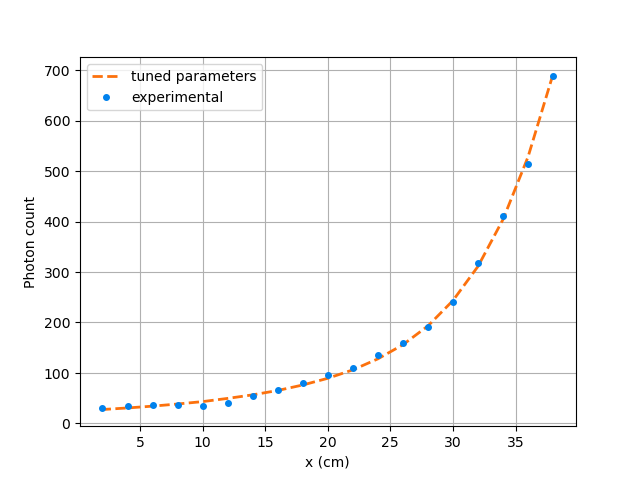
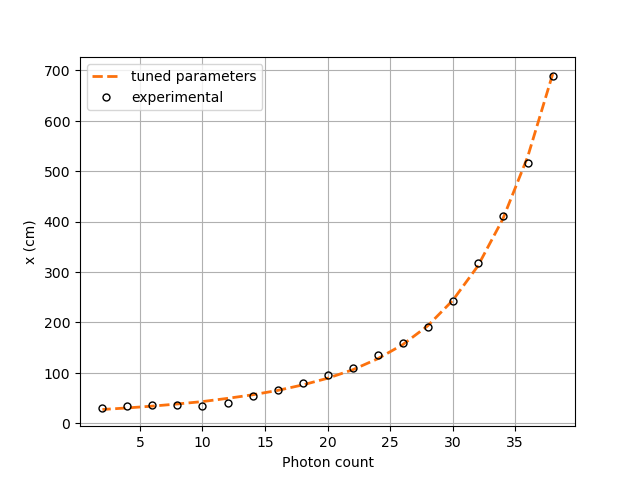
RPT examples: Modify examples taking the comments into account

diff --git a/examples/rpt/parameters_tuning/rpt_parameter_tuning_plot.py b/examples/rpt/parameters_tuning/rpt_parameter_tuning_plot.py
@@ -1,0 +1,64 @@
+"""
+Name   : rpt_parameter_tuning_plot.py
+Author : Amishga Alphonius
+Date   : 23-06-2022
+Desc   : Generates plots with the data resulting from the parameter tuning example
+"""
+
+from sklearn.linear_model import LinearRegression
+from sklearn.metrics import r2_score
+import numpy as np
+import matplotlib.pyplot as plt
+import csv
+import sys
+
+
+header = []
+rows = []
+position_x = []
+exp_counts = []
+cal_counts = []
+
+# Verify if an argument was added when running the script
+assert(len(sys.argv)>1), "The .csv containing the data to be read wasn't specified as an argument when running the script."
+	
+
+# Opening and reading .csv file, and converting positions from 'm' to 'cm'
+with open("counts_exp.csv",'r') as data_file:
+	csvReader = csv.reader(data_file, delimiter=',')
+	header = next(csvReader)
+	for row in csvReader:
+		exp_counts.append(float(row[0]))
+data_file.close()
+
+with open(sys.argv[1],'r') as data_file:
+	csvReader = csv.reader(data_file, delimiter=',')
+	header = next(csvReader)
+	for row in csvReader:
+		position_x.append(float(row[0])*100)
+		cal_counts.append(float(row[4]))
+data_file.close()
+
+cal_counts = np.array(cal_counts)
+exp_counts = np.array(exp_counts)
+
+
+# Generate plots
+# Experimental and calculated counts comparison
+plt.plot(position_x, cal_counts, linestyle="dashed", color="#fc710d", linewidth=2, label="tuned parameters")
+plt.plot(position_x, exp_counts, linestyle="none", color="#000000", marker='o', ms=5, mfc="None", label="experimental")
+plt.xlabel("Photon count")
+plt.ylabel("x (cm)")
+plt.legend()
+plt.grid(True)
+plt.show()
+
+# Linear fit graph
+plt.plot(exp_counts, cal_counts, linestyle="None", color="#000000", marker='o', ms=5, mfc="None")
+cal_counts, exp_counts = cal_counts.reshape(-1,1), exp_counts.reshape(-1,1)
+plt.plot(cal_counts, LinearRegression().fit(cal_counts, exp_counts).predict(cal_counts), linestyle="dashed", color="#fc710d", linewidth=2)
+plt.annotate("R^2 = {:.4f}".format(r2_score(cal_counts, exp_counts)), (490, 650), color="#fc710d")
+plt.xlabel("Experimental photon count")
+plt.ylabel("Calculated photon count")
+plt.grid(True)
+plt.show()

diff --git a/examples/rpt/parameters_tuning/rpt_lethe_nomad.py b/examples/rpt/parameters_tuning/rpt_lethe_nomad.py
@@ -11,7 +11,6 @@ import sys
 
 # Path to files/application
 path = "./"  # Current directory
-path_to_rpt_3d = "/home/          /lethe/build/applications/rpt_3d/rpt_3d"   # TO FILL OUT
 
 # Get new calculated parameters
 tmpfile = sys.argv[1]  # Temporary file for new values
@@ -42,7 +41,7 @@ with open(tmp_lethe_parameter_file, "w") as file:  # Write .prm with new paramet
     file.write("\n".join(filestr))
 
 # Call rpt_3d executable
-os.system(path_to_rpt_3d + " " + tmp_lethe_parameter_file)
+os.system("rpt_3d " + tmp_lethe_parameter_file)
 
 # Delete temporary parameter files
 os.remove(tmp_lethe_parameter_file)

diff --git a/doc/source/examples/rpt/photon-count-calculation-in-a-cylindrical-vessel/photon-count-calculation-in-a-cylindrical-vessel.rst b/doc/source/examples/rpt/photon-count-calculation-in-a-cylindrical-vessel/photon-count-calculation-in-a-cylindrical-vessel.rst
@@ -17,7 +17,7 @@ Features
 
 :raw-html:`<br />`
 
-Locations of files used in the example
+Locations of Files Used in the Example
 ---------------------------------------
 - Parameter file: ``examples/rpt/count_calculation/rpt_count_calculation.prm``
 - File containing detector positions: ``examples/rpt/count_calculation/positions.detector``
@@ -25,11 +25,12 @@ Locations of files used in the example
 - File containing particle positions for the second scenario  ``examples/rpt/count_calculation/positions_horizontaly.particle``
 - File containing particle positions for the third scenario:  ``examples/rpt/count_calculation/positions_vertical.particle``
 - File containing particle positions for the fourth scenario:  ``examples/rpt/count_calculation/positions_diagonal.particle``
+- Python script for visualizing the results: ``examples/rpt/count_calculation/rpt_count_calculation_plot.py``
 
 
 :raw-html:`<br />`
 
-Description of the case
+Description of the Case
 -------------------------
 In this example, four different sets of particle positions are studied for a given detector position. The four different scenarios studied in this example are :
 
@@ -123,7 +124,7 @@ where
 
 :raw-html:`<br />`
 
-Parameter file
+Parameter File
 ----------------
 
 RPT Parameters
@@ -180,7 +181,7 @@ In the subsection ``detector parameters``, we specify the file that contains two
 
 :raw-html:`<br />`
 
-Running the simulation
+Running the Simulation
 ----------------------------------
 Launching the simulation is as simple as specifying the executable name and the parameter file. Assuming that the ``rpt_3d`` executable is within your path, the simulation can be launched by typing:
 
@@ -206,7 +207,7 @@ To visualize the data and obtain the figures shown below, a python script (``rpt
     You may use the ``rpt_count_calculation_plot.py`` script to plot any other set of data saved in a ``.csv`` file format.
 
 
-Scenario 1: Horizontal translation of a particle along the x-axis 
+Scenario 1: Horizontal Translation of a Particle Along the X-Axis
 ~~~~~~~~~~~~~~~~~~~~~~~~~~~~~~~~~~~~~~~~~~~~~~~~~~~~~~~~~~~~~~~~~~
 .. image:: images/counts_along_x-axis.png
     :alt: Results for the horizontal translation of a particle along the x-axis (Scenario 1)
@@ -216,7 +217,7 @@ Scenario 1: Horizontal translation of a particle along the x-axis
 
 In the figure shown above, as one would expect, as the particle approaches the detector, the photon count grows. Such evolution may be explained by the efficiency of the detector getting greater as the particle advances toward the detector's exposed surface. Since the photon's path length in the vessel decreases, :math:`f_a(\alpha, \theta)` increases, and therefore the efficiency gets greater. In addition to that, as the particle approaches the detector, the solid angle gets greater, the product :math:`\omega(\alpha) \omega(\theta)` increases, making the efficiency increase also.
 
-Scenario 2: Horizontal translation of a particle along the y-axis 
+Scenario 2: Horizontal Translation of a Particle Along the Y-Axis
 ~~~~~~~~~~~~~~~~~~~~~~~~~~~~~~~~~~~~~~~~~~~~~~~~~~~~~~~~~~~~~~~~~~
 
 .. figure:: images/counts_along_y-axis_case1.png
@@ -269,7 +270,7 @@ The last case studied (Case IV) shows the evolution of the photon count when :ma
 Coming back to the Case I figure, we can see that photon count follows a pattern similar to the one seen in Case IV. We may interpret from it that :math:`f_d(\alpha, \theta)` varies very little as opposed to :math:`f_a(\alpha, \theta)` that fluctuates greatly. The local minimal values, in this case, are at :math:`y \approx -6` cm and :math:`y \approx 6` cm, as opposed to :math:`y \approx -4.6` cm and :math:`y \approx -4.6` cm for the fourth case. This is due to the change in the value of :math:`\mu_d`. :math:`f_d(\alpha,\theta)` function of :math:`y` increases at a slower rate, making the minimums further way from the center. To summarize, the fluctuations seen in the Case I figure is the result of the combined influence of the values of the attenuation coefficients, the variation of the path lengths of the photon in the vessel and the detector, and the evolution of the weighting factors.
 
 
-Scenario 3: Vertical translation of a particle along the z-axis
+Scenario 3: Vertical Translation of a Particle Along the Z-Axis
 ~~~~~~~~~~~~~~~~~~~~~~~~~~~~~~~~~~~~~~~~~~~~~~~~~~~~~~~~~~~~~~~~
 .. image:: images/counts_along_z-axis.png
     :alt: Results for the vertical translation of a particle along the z-axis (Scenario 3)
@@ -280,7 +281,7 @@ Scenario 3: Vertical translation of a particle along the z-axis
 Similar to the first scenario, as the particle approaches the detector, we notice an increase in photon count. The photon count reaches its maximal value at around :math:`z = 7.1` cm, which is close to the center of the detector's face.
 
 
-Scenario 4: Particle going across the vessel on a diagonal line
+Scenario 4: Particle Going Across the Vessel on a Diagonal Line
 ~~~~~~~~~~~~~~~~~~~~~~~~~~~~~~~~~~~~~~~~~~~~~~~~~~~~~~~~~~~~~~~~~
 .. image:: images/counts_across_vessel_on_a_diagonal_line.png
     :alt: Results for the particle going across the vessel on a diagonal line (Scenario 4)
@@ -290,10 +291,10 @@ Scenario 4: Particle going across the vessel on a diagonal line
 
 After analyzing the past three scenarios, we get much-expected results for this scenario. As seen in the first scenario, the photon count varies greatly with the :math:`x` coordinate of the position vector of the particle. That is because the path of the photon inside the vessel gets longer when :math:`x` gets smaller. In other words, the ray is more attenuated by the material inside the vessel before getting to the detector, therefore the photon count gets smaller. Consequently, even though the particle is further away from the detector if the :math:`x` coordinate of the tracer's position is closer to the detector's exposed surface, the photon count could get greater and that's what we see on the figure above for high :math:`z` values.
 
-Sensitivity analysis of the Monte Carlo method
-~~~~~~~~~~~~~~~~~~~~~~~~~~~~~~~~~~~~~~~~~~~~~~~~~~
+Sensitivity Analysis of the Monte Carlo Method
+~~~~~~~~~~~~~~~~~~~~~~~~~~~~~~~~~~~~~~~~~~~~~~~~
 
-Looking back at the second scenario's results (Case A), we notice that the counts are a little scattered. By increasing the number of Monte Carlo iterations (:math:`N`), we get much smoother results as seen in the Case C figure. In the Case C figure, we have multiplied the number of Monte Carlo iterations by a factor of :math:`10`. When calculating the efficiency using the Monte Carlo method with a large :math:`N`, more "weight" is accorded to the most probable points, since they appear more often in the sum. This makes the least probable points negligible. Consequently, we obtain smoother results. In the Case B figure, :math:`N` was divided by a factor of :math:`10`. As expected, in this figure, we see much more scattering.
+Looking back at the second scenario's results (Case A), we notice that the counts are a little scattered. This is caused by the stochastic nature of the Monte Carlo method. Increasing the number of Monte Carlo iterations (:math:`N`), generates much smoother results as seen in the Case C figure where we have multiplied :math:`N` by a factor of :math:`10`. By increasing :math:`N`, we're covering more of the solid angle, making the simulation more representative of the physical system. Therefore, we see a better continuity in the photon counts. In the Case B figure, :math:`N` was divided by a factor of :math:`10`. As expected, in this figure, we see much more scattering.
 
 +---------------------------------------------------------------------------------------------------------------------------------------------------------------+
 |  .. figure:: images/counts_along_y-axis_case1.png                                                                                                             |
@@ -326,4 +327,3 @@ References
 [1] Beam, G.B., Wielopolski, L., Gardner,  R.P., & Verghese, K. (1978). Monte Carlo calculation of efficiencies of right-circular cylindrical NaI detectors for arbitrarily located point sources. *Nuclear Instruments and Methods*. 154(3), 501-508. https://doi.org/10.1016/0029-554X(78)90081-2
 
 [2] Larachi, F., Kennedy, G., & Chaouki, J. (1994). A γ-ray detection system for 3-D particle tracking in multiphase reactors. *Nuclear Instruments and Methods in Physics Research Section A: Accelerators, Spectrometers, Detectors and Associated Equipment*. 338(2), 568-576. https://doi.org/10.1016/0168-9002(94)91343-9
-

diff --git a/doc/source/examples/rpt/tuning-parameters-with-nomad/tuning-parameters-with-nomad.rst b/doc/source/examples/rpt/tuning-parameters-with-nomad/tuning-parameters-with-nomad.rst
@@ -23,7 +23,7 @@ Features
 
 :raw-html:`<br />`
 
-Locations of files used in the example
+Locations of Files Used in the Example
 ---------------------------------------
 - Parameter file: ``examples/rpt/parameters_tuning/rpt_parameters.prm``
 - Python script for NOMAD: ``examples/rpt/parameters_tuning/rpt_lethe_nomad.py``
@@ -31,11 +31,12 @@ Locations of files used in the example
 - File containing particle positions: ``examples/rpt/parameters_tuning/positions.particle``
 - File containing experimental particle counts: ``examples/rpt/parameters_tuning/counts.experimental``
 - File containing detector positions: ``examples/rpt/parameters_tuning/positions.detector``
+- Python script for visualizing the results: ``examples/rpt/parameters_tuning/rpt_parameter_tuning_plot.py``
 
 
 :raw-html:`<br />`
 
-Description of the case
+Description of the Case
 -------------------------
 In this example, using the NOMAD optimization software and the experimental data, we are going to tune the three unknowns (:math:`R, \tau`, and :math:`\mu_r`) of our studied system.
 
@@ -53,7 +54,7 @@ As discussed in the previous example (`Photon Count Calculation in a Cylindrical
     C = \frac{T \nu R \phi \xi_i (\mathbf{X})}{1 + \tau \nu R \phi \xi_i (\mathbf{X})}
 
 
-where,
+where
 
 - :math:`T` is the sampling time [:math:`s`];
 - :math:`\nu` is the number of :math:`\gamma`-rays emitted by each disintegration;
@@ -98,10 +99,10 @@ where :math:`\mu_d` is the detector's attenuation coefficient and :math:`d(\alph
 
 :raw-html:`<br />`
 
-Parameter files
+Parameter Files
 ----------------
 
-*rpt_parameters.prm* file
+*rpt_parameters.prm* File
 ~~~~~~~~~~~~~~~~~~~~~~~~~~~
 
 RPT Parameters
@@ -133,7 +134,7 @@ As seen in the previous example, in the subsection ``rpt parameters``, we define
     ``verbosity`` **must** be set to **quiet** since NOMAD gets the cost function value from the terminal for its MADS algorithm.
 
 
-Parameter tuning
+Parameter Tuning
 ^^^^^^^^^^^^^^^^^^
 
 In the subsection ``parameter tuning``, we enable parameters tuning, we specify a type of cost function and define a set of experimental counts to compare with the calculated counts. Parameters used for the tuning of the model parameters are described in the `Parameter tuning <../../../parameters/rpt/parameter_tuning.html>`_ documentation page.
@@ -171,7 +172,7 @@ In the subsection ``detector parameters``, we specify the file that contains the
 
 :raw-html:`<br />`
 
-*param_nomad.txt* file
+*param_nomad.txt* File
 ~~~~~~~~~~~~~~~~~~~~~~~~~~
 
 The ``param_nomad.txt`` file is used when running NOMAD. This file provides initial guess and constraints when defining the optimization problem. These parameters are defined using specific keywords as explained in the `NOMAD User Guide <https://nomad-4-user-guide.readthedocs.io/en/latest/GettingStarted.html#provide-parameters>`_.
@@ -197,27 +198,21 @@ The ``param_nomad.txt`` file is used when running NOMAD. This file provides init
                                                           # the current solution ( SOL ) and the objective
 
 .. note::
-    In this example, we use version 4.2.0 of NOMAD. You can get it by clicking on the **Download** button on of `the software's web page <https://www.gerad.ca/en/software/nomad>`_ and filling out the required information. The steps to follow for the installation are specified in the `NOMAD 4 User Guide <https://nomad-4-user-guide.readthedocs.io/en/latest/Installation.html>`_.
+    In this example, we use version 4.2.0 of NOMAD. You can get it by clicking on the **Download** button of `the software's web page <https://www.gerad.ca/en/software/nomad>`_ and filling out the required information. The steps to follow for the installation are specified in the `NOMAD 4 User Guide <https://nomad-4-user-guide.readthedocs.io/en/latest/Installation.html>`_.
 
 
 :raw-html:`<br />`
 
-Running the simulation
+Running the Simulation
 ----------------------------------
 
-If it's the **first time** you're running this example, it is important to open the ``rpt_lethe_nomad.py`` script and complete the path to the ``rpt_3d`` executable on the :math:`14^{th}` line.
-
-.. attention::
-    If you don't complete the path to the ``rpt_3d`` executable on the :math:`14^{th}` line of the ``rpt_lethe_nomad.py`` script you won't be able to tune your parameters.
-
-Once you've completed the line mentioned above in the ``rpt_lethe_nomad.py`` script, you may run NOMAD by typing :
+Assuming that ``rpt_3d`` and ``nomad`` executables are within your path, you may run NOMAD by typing :
 
 .. code-block:: text
 
-    /home/myUserName/PathToNomad param_nomad.txt
+    nomad param_nomad.txt
 
-
-NOMAD will then execute the Python script (``rpt_lethe_nomad.py``) which is specified in the ``param_nomad.txt`` file. The Python script ``rpt_nomad_lethe.py`` proceeds the values of parameters to tune given by NOMAD, modifies the parameter file for Lethe, and runs the rpt_3d application. ``rpt_3d`` of Lethe executes the Monte Carlo ray model and calculates a cost function which is caught by NOMAD through the terminal. NOMAD executes its MADS algorithm and generates a new set of parameters until a terminating criterion is reached.
+NOMAD will then execute the Python script (``rpt_lethe_nomad.py``) which is specified in the ``param_nomad.txt`` file. The Python script ``rpt_nomad_lethe.py`` proceeds the values of parameters to tune given by NOMAD, modifies the parameter file for Lethe, and runs the ``rpt_3d`` application. ``rpt_3d`` of Lethe executes the Monte Carlo ray model and calculates a cost function which is caught by NOMAD through the terminal. NOMAD executes its MADS algorithm and generates a new set of parameters until a terminating criterion is reached.
 
 
 :raw-html:`<br />`
@@ -260,7 +255,7 @@ Second, in the ``parameter tuning`` subsection, the ``tuning`` parameter was set
 
 Lastly, in the ``detector parameters`` subsection, the values of the parameters that were tuned (``dead time``, ``activity``, and ``attenuation coefficient reactor``) were replaced with the ones NOMAD gave us.
 
-In the figures below, we can see that there is very little difference between the experimental counts and the calculated counts with the tuned parameters. In fact, the linear regression between the experimental and calculated photon counts give us a R² value of 0.9990 as seen in the *Linear fit* figure.
+To visualize the data and obtain the figures shown below, a python script (``rpt_parameter_tuning_plot.py``) is provided. When running the script, the name of the ``.csv`` file containing the calculated counts must be specified as an argument. In the *Experimental and calculated counts comparison* figure, we can see very little difference between the experimental counts and the calculated counts with the tuned parameters. The linear regression between the experimental and calculated photon counts gives us an R² value of 0.9990 as seen in the *Linear fit* figure. This confirms the validity of the tuned parameters.
 
 .. figure:: images/results.png
     :alt: Experimental and calculated counts comparison
@@ -284,4 +279,3 @@ References
 [1] Beam, G.B., Wielopolski, L., Gardner,  R.P., & Verghese, K. (1978). Monte Carlo calculation of efficiencies of right-circular cylindrical NaI detectors for arbitrarily located point sources. *Nuclear Instruments and Methods*. 154(3), 501-508. https://doi.org/10.1016/0029-554X(78)90081-2
 
 [2] Larachi, F., Kennedy, G., & Chaouki, J. (1994). A γ-ray detection system for 3-D particle tracking in multiphase reactors. *Nuclear Instruments and Methods in Physics Research Section A: Accelerators, Spectrometers, Detectors and Associated Equipment*. 338(2), 568-576. https://doi.org/10.1016/0168-9002(94)91343-9
-
